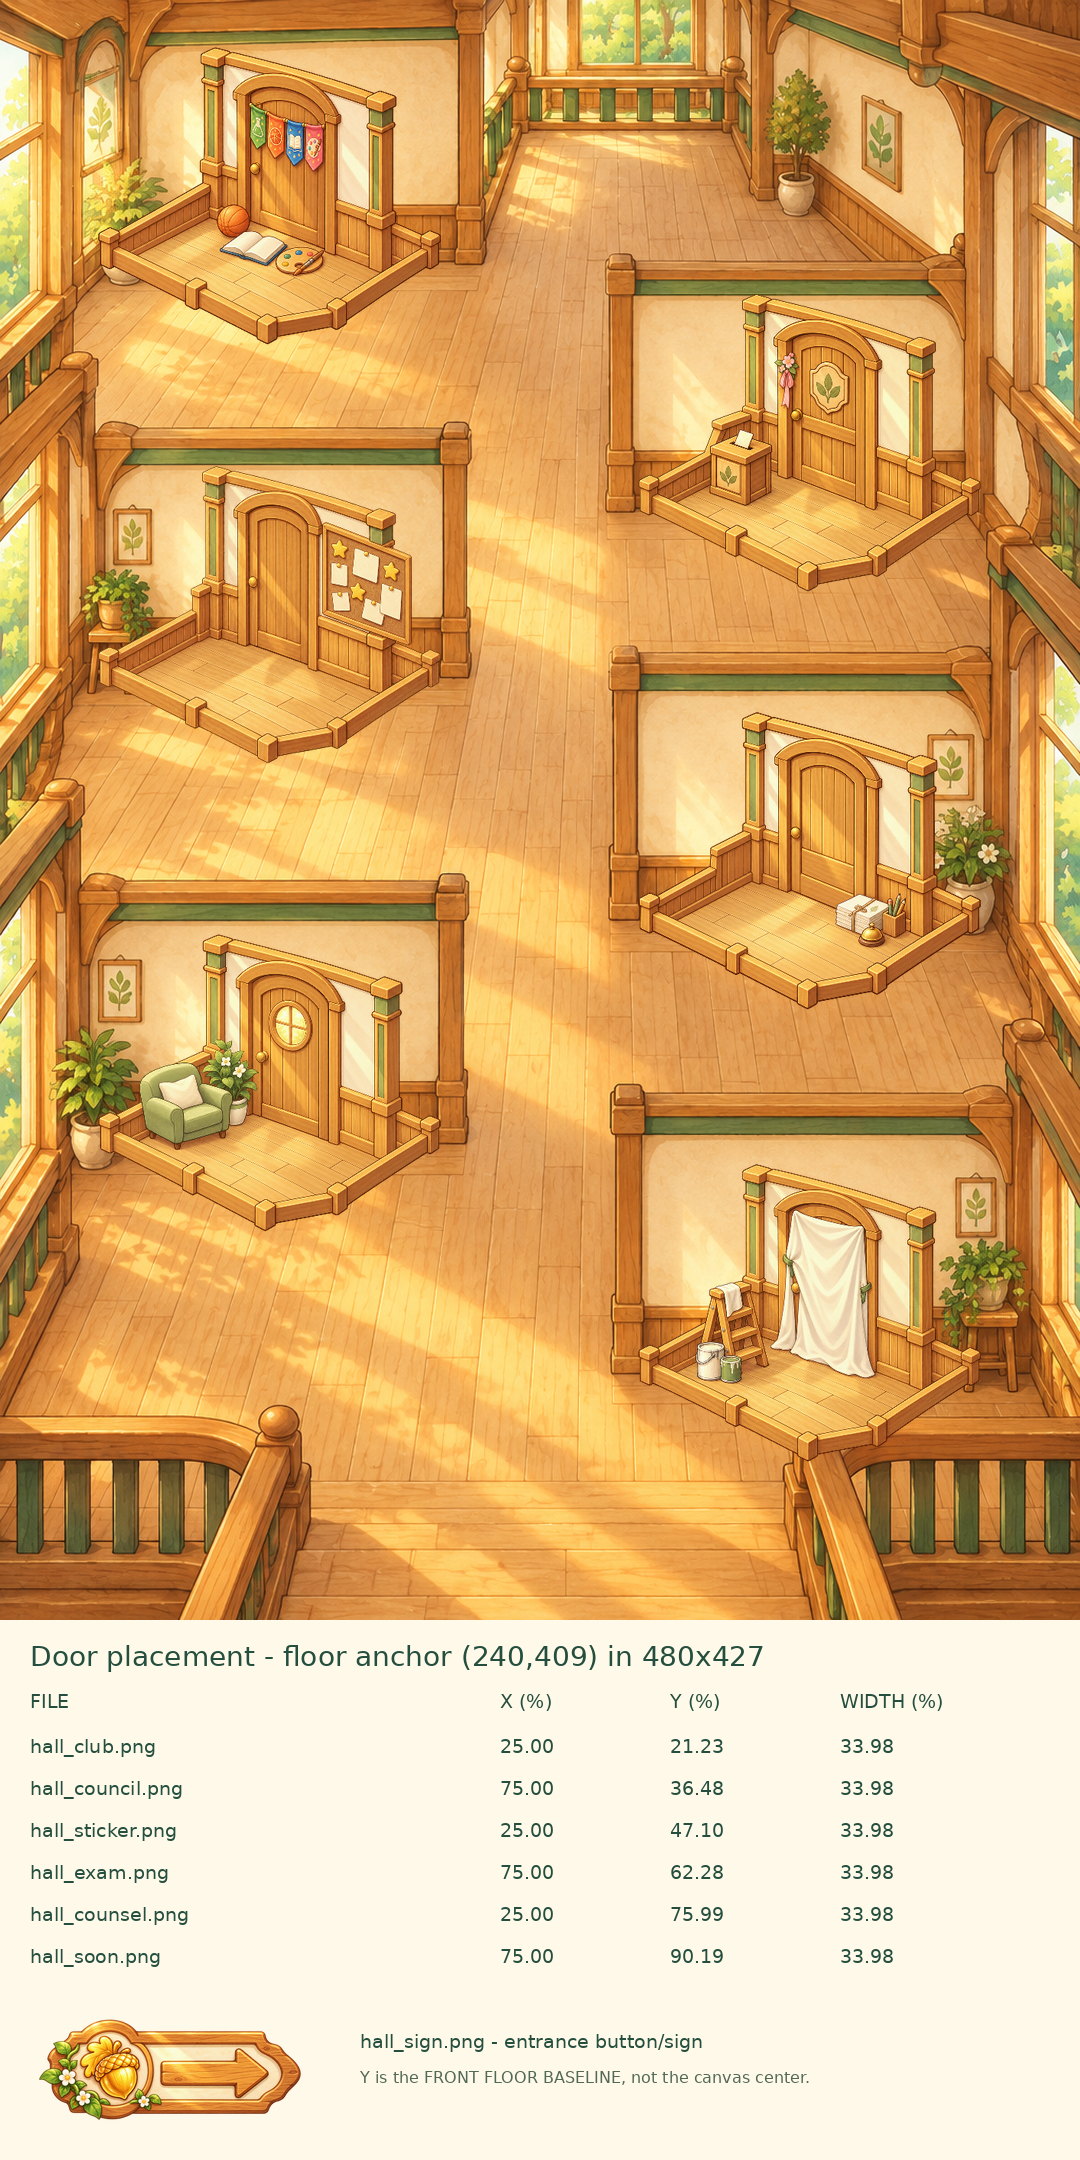
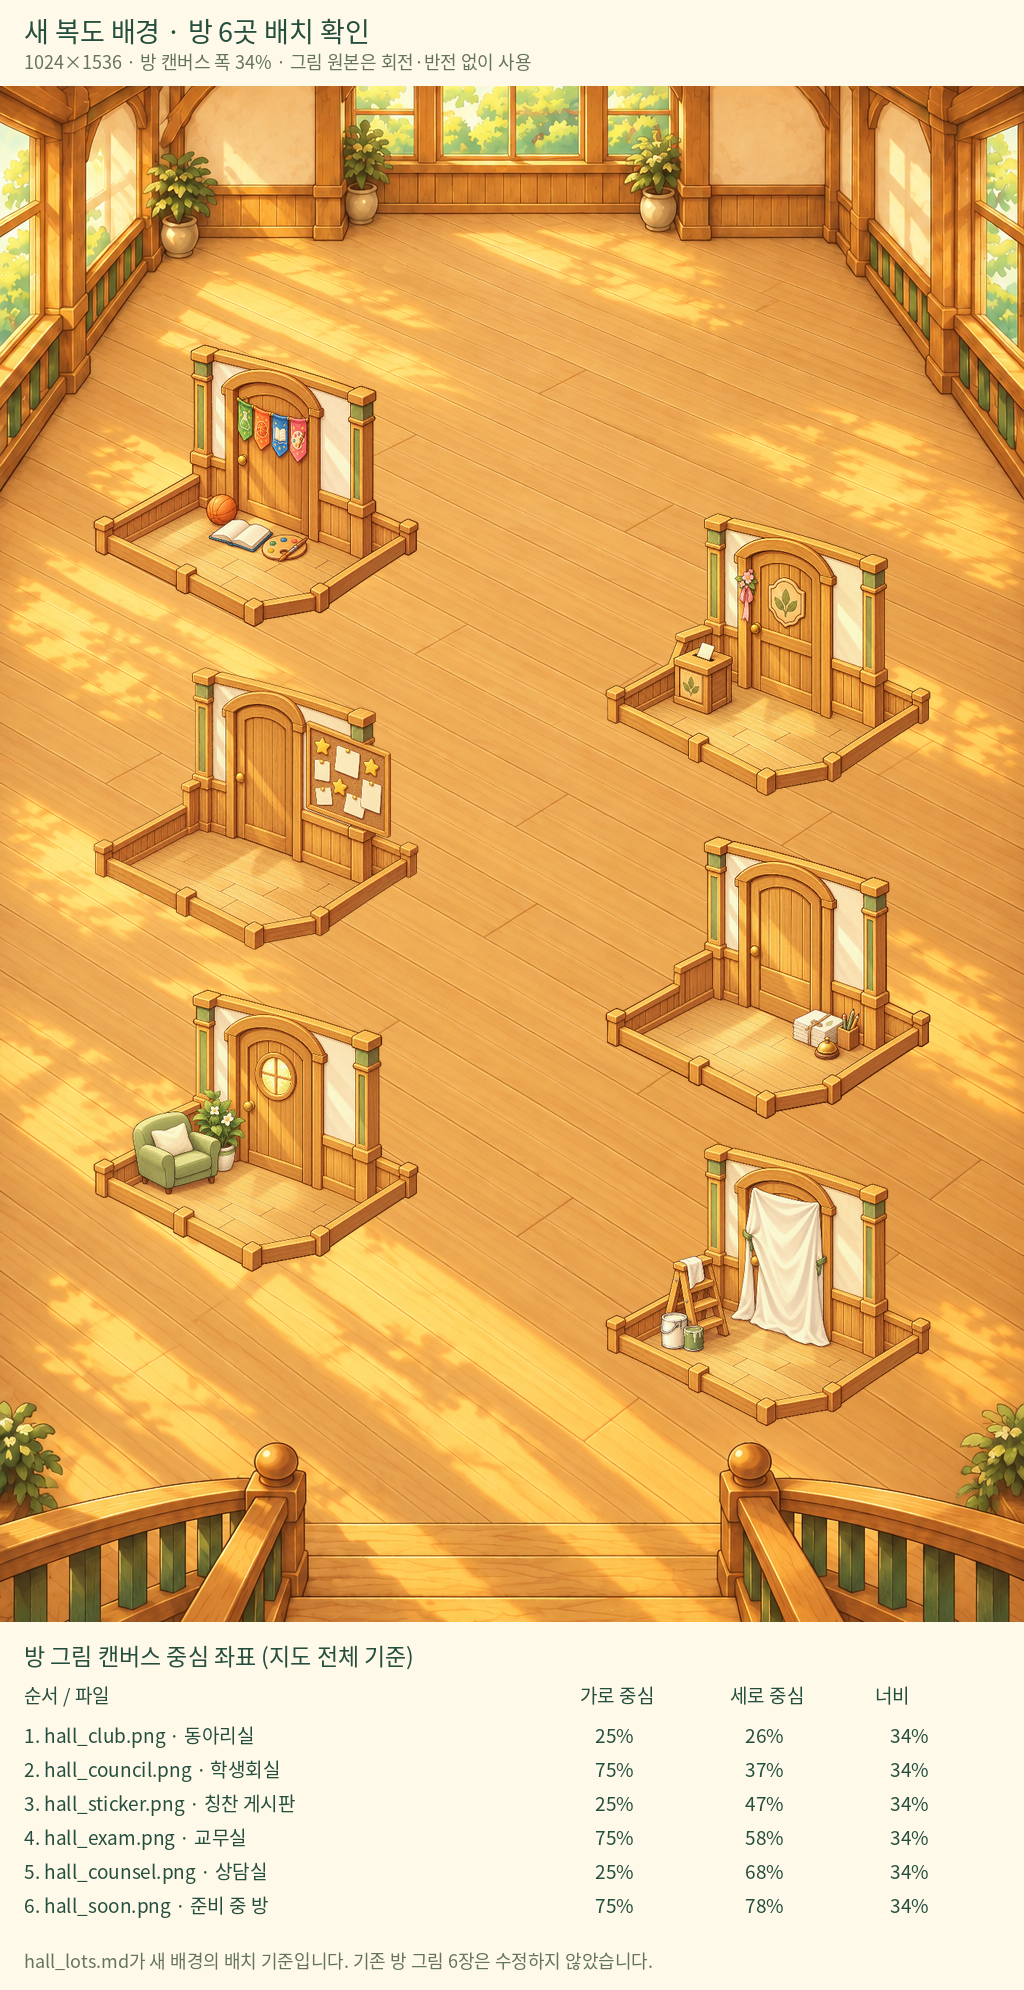
art: redraw open wooden school hallway and document room lots

diff --git a/art/v201/hall/hall_lots.md b/art/v201/hall/hall_lots.md
@@ -1,0 +1,22 @@
+# 새 복도 배경의 방 배치
+
+이 문서는 다시 그린 `hall_bg.png` **1024×1536**의 배치 기준입니다. 기존 `placements.md`는 이전 1080×1620 배경의 바닥 기준점 좌표이므로 새 배경에는 아래 표를 사용합니다. 기존 문서는 변경하지 않았습니다.
+
+표의 가운데는 **투명 여백을 포함한 방 PNG 캔버스의 가운데**입니다. 가로·세로·너비 비율은 모두 복도 배경 전체 기준입니다. 방 PNG 6장은 기존 480×427 파일 그대로 사용하며 회전, 좌우 반전, 그림 변형을 하지 않습니다.
+
+| 순서 | 방 | 파일 | 가운데 가로 (%) | 가운데 세로 (%) | 너비 (%) | 표시 크기 (px) | 좌상단 (px) |
+|---|---|---|---:|---:|---:|---|---|
+| 1 | 동아리실 | `hall_club.png` | 25 | 26 | 34 | 348×310 | (82, 244) |
+| 2 | 학생회실 | `hall_council.png` | 75 | 37 | 34 | 348×310 | (594, 413) |
+| 3 | 칭찬 게시판 | `hall_sticker.png` | 25 | 47 | 34 | 348×310 | (82, 567) |
+| 4 | 교무실 | `hall_exam.png` | 75 | 58 | 34 | 348×310 | (594, 736) |
+| 5 | 상담실 | `hall_counsel.png` | 25 | 68 | 34 | 348×310 | (82, 889) |
+| 6 | 준비 중 방 | `hall_soon.png` | 75 | 78 | 34 | 348×310 | (594, 1043) |
+
+왼쪽·오른쪽을 번갈아 내려가는 순서입니다. 너비는 `배경 표시 너비 × 0.34`, 높이는 `방 표시 너비 × 427 / 480`으로 계산합니다. 표의 픽셀 좌표는 정수 반올림한 미리보기 값입니다.
+
+가운데 정렬을 쓰는 화면에서는 `left: 가로%`, `top: 세로%`, `width: 34%`에 `translate(-50%, -50%)`로 배치할 수 있습니다. 바닥 기준점으로 배치하는 화면이라면 원본 방 이미지의 **(240,409)**를 사용합니다. 위 미리보기에서 바닥 기준점은 차례대로 약 **(256,541), (768,710), (256,864), (768,1033), (256,1186), (768,1340)**입니다. 가운데 좌표와 바닥 기준점을 혼용하지 않습니다.
+
+`../_preview/hall_check.png`에는 새 배경 위에 위 좌표로 방 그림 6장을 올린 모습과 같은 표를 넣었습니다. 방 사이의 통로와 아래 계단 앞 공간을 남기고, 방 자리에는 벽감·화분·가구를 그리지 않았습니다. 방 그림에 원래 들어 있는 소품은 그대로입니다.
+
+지정된 `ref/hall_club.png` 등과 `ref/hall_bg_old.png`는 현재 브랜치에 없어, 기존 커밋 `564b24d`의 `hall/` 안 방 그림 6장과 이전 복도 배경을 이미지 생성 기준으로 사용했습니다. `ref/`와 게임 코드는 변경하지 않았습니다.
